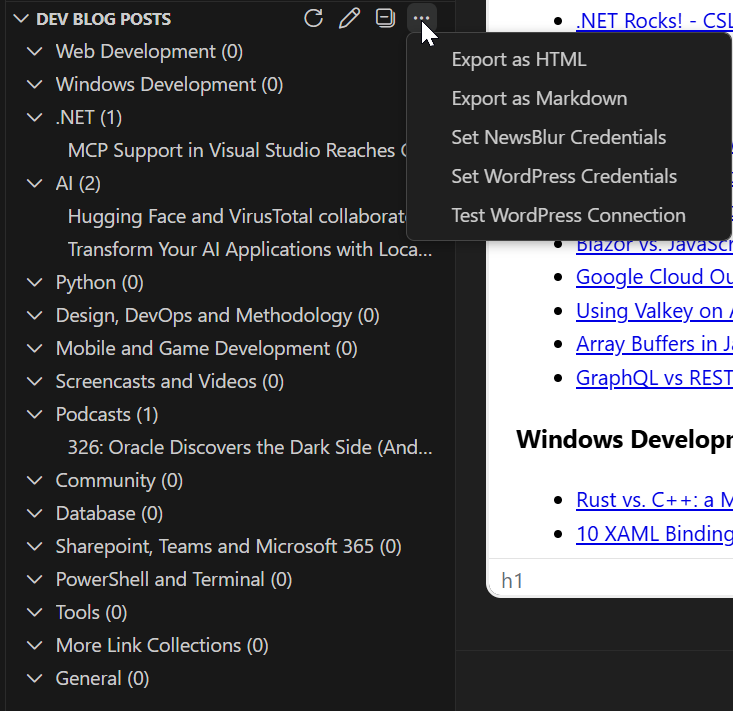
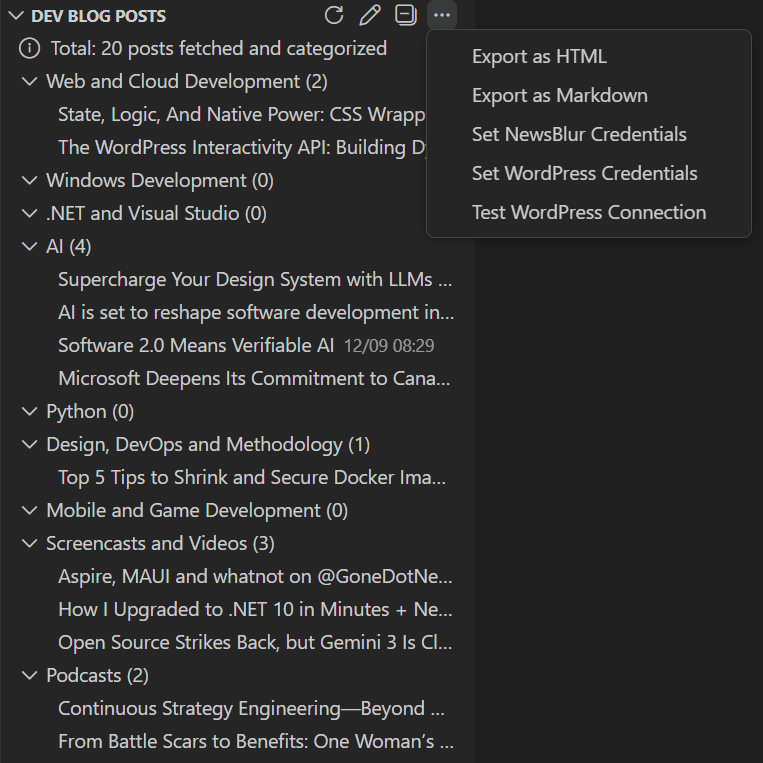
Update summary message for not loaded; screenshot

diff --git a/src/test/unit/rssProvider.test.ts b/src/test/unit/rssProvider.test.ts
@@ -507,7 +507,7 @@ describe('RSSBlogProvider', () => {
       await provider.refresh();
     });
 
-    it('should create tree items for summary node', () => {
+    it('should create tree items for summary node with posts', () => {
       const summaryNode = {
         label: 'Total: 2 posts fetched and categorized',
         isSummary: true,
@@ -517,6 +517,21 @@ describe('RSSBlogProvider', () => {
       const treeItem = provider.getTreeItem(summaryNode);
       
       expect(treeItem.label).to.equal('Total: 2 posts fetched and categorized');
+      expect(treeItem.collapsibleState).to.equal(vscode.TreeItemCollapsibleState.None);
+      expect(treeItem.contextValue).to.equal('summary');
+      expect(treeItem.iconPath).to.be.instanceOf(vscode.ThemeIcon);
+    });
+
+    it('should create tree items for summary node with no posts', () => {
+      const summaryNode = {
+        label: 'No posts loaded - click refresh to load feeds',
+        isSummary: true,
+        collapsibleState: vscode.TreeItemCollapsibleState.None
+      };
+
+      const treeItem = provider.getTreeItem(summaryNode);
+      
+      expect(treeItem.label).to.equal('No posts loaded - click refresh to load feeds');
       expect(treeItem.collapsibleState).to.equal(vscode.TreeItemCollapsibleState.None);
       expect(treeItem.contextValue).to.equal('summary');
       expect(treeItem.iconPath).to.be.instanceOf(vscode.ThemeIcon);
@@ -554,6 +569,18 @@ describe('RSSBlogProvider', () => {
       expect(children[0]).to.have.property('isSummary', true); // First item is summary
       expect(children[1]).to.have.property('posts'); // Second item is first category
       expect(children[1]).to.have.property('label');
+    });
+
+    it('should show appropriate message when no posts are loaded', async () => {
+      // Create a new provider instance without loading any feeds
+      const emptyProvider = new RSSBlogProvider(mockContext);
+      
+      const children = await emptyProvider.getChildren();
+      
+      expect(children).to.be.an('array');
+      expect(children.length).to.equal(1); // Only summary node when no posts
+      expect(children[0]).to.have.property('isSummary', true);
+      expect(children[0].label).to.equal('No posts loaded - click refresh to load feeds');
     });
 
     it('should return posts as category children', async () => {

diff --git a/src/rssProvider.ts b/src/rssProvider.ts
@@ -317,8 +317,11 @@ export class RSSBlogProvider implements vscode.TreeDataProvider<any> {
             
             // Create summary node
             const totalPosts = this.posts.length;
+            const summaryLabel = totalPosts === 0 
+                ? 'No posts loaded - click refresh to load feeds'
+                : `Total: ${totalPosts} post${totalPosts !== 1 ? 's' : ''} fetched and categorized`;
             const summaryNode = {
-                label: `Total: ${totalPosts} post${totalPosts !== 1 ? 's' : ''} fetched and categorized`,
+                label: summaryLabel,
                 isSummary: true,
                 collapsibleState: vscode.TreeItemCollapsibleState.None
             };
